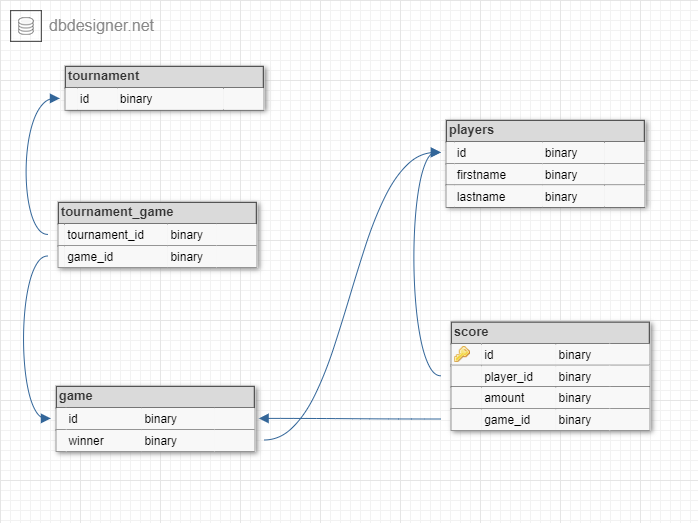
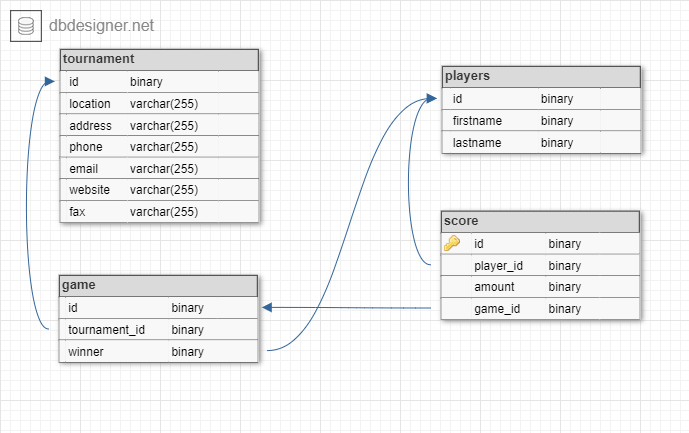
update

diff --git a/blogs/scrape_the_web1.md b/blogs/scrape_the_web1.md
@@ -47,6 +47,22 @@ The scraper in action (sounds like a new Hollywood action blockbuster or a seque
 - Scraping and saving to db the tournaments, its players and games. **(begin - 2:06)**
 - Show resulted db tables in DataGrip db viewer **(2:06 - end)**
 
+**Entities**
+Tournament
+Players
+
+| Entity | Relations |
+| ------------- | ------------- |
+| Tournament | Has many Games  |
+| Game  | Belongs to one Tournament, has one Player as winner  |
+| Player | Could belong to many Games  |
+| Score | A Game consists of many scores, a Score can have one player  |
+
+
+## Examine the Site
+// TODO screenshot that matches every entity and describe your thought at each screen
+
+
 **Database Design**
 
 The scraped data from the website is being saved to this structure, whereas every entity is getting
@@ -66,9 +82,5 @@ linked appropriately.
 ## Web scraping
 Interactive parts
 Scraping parts
-
-## Examine the Site
-// TODO screenshot that matches every entity and describe your thought at each screen
-
 
 
